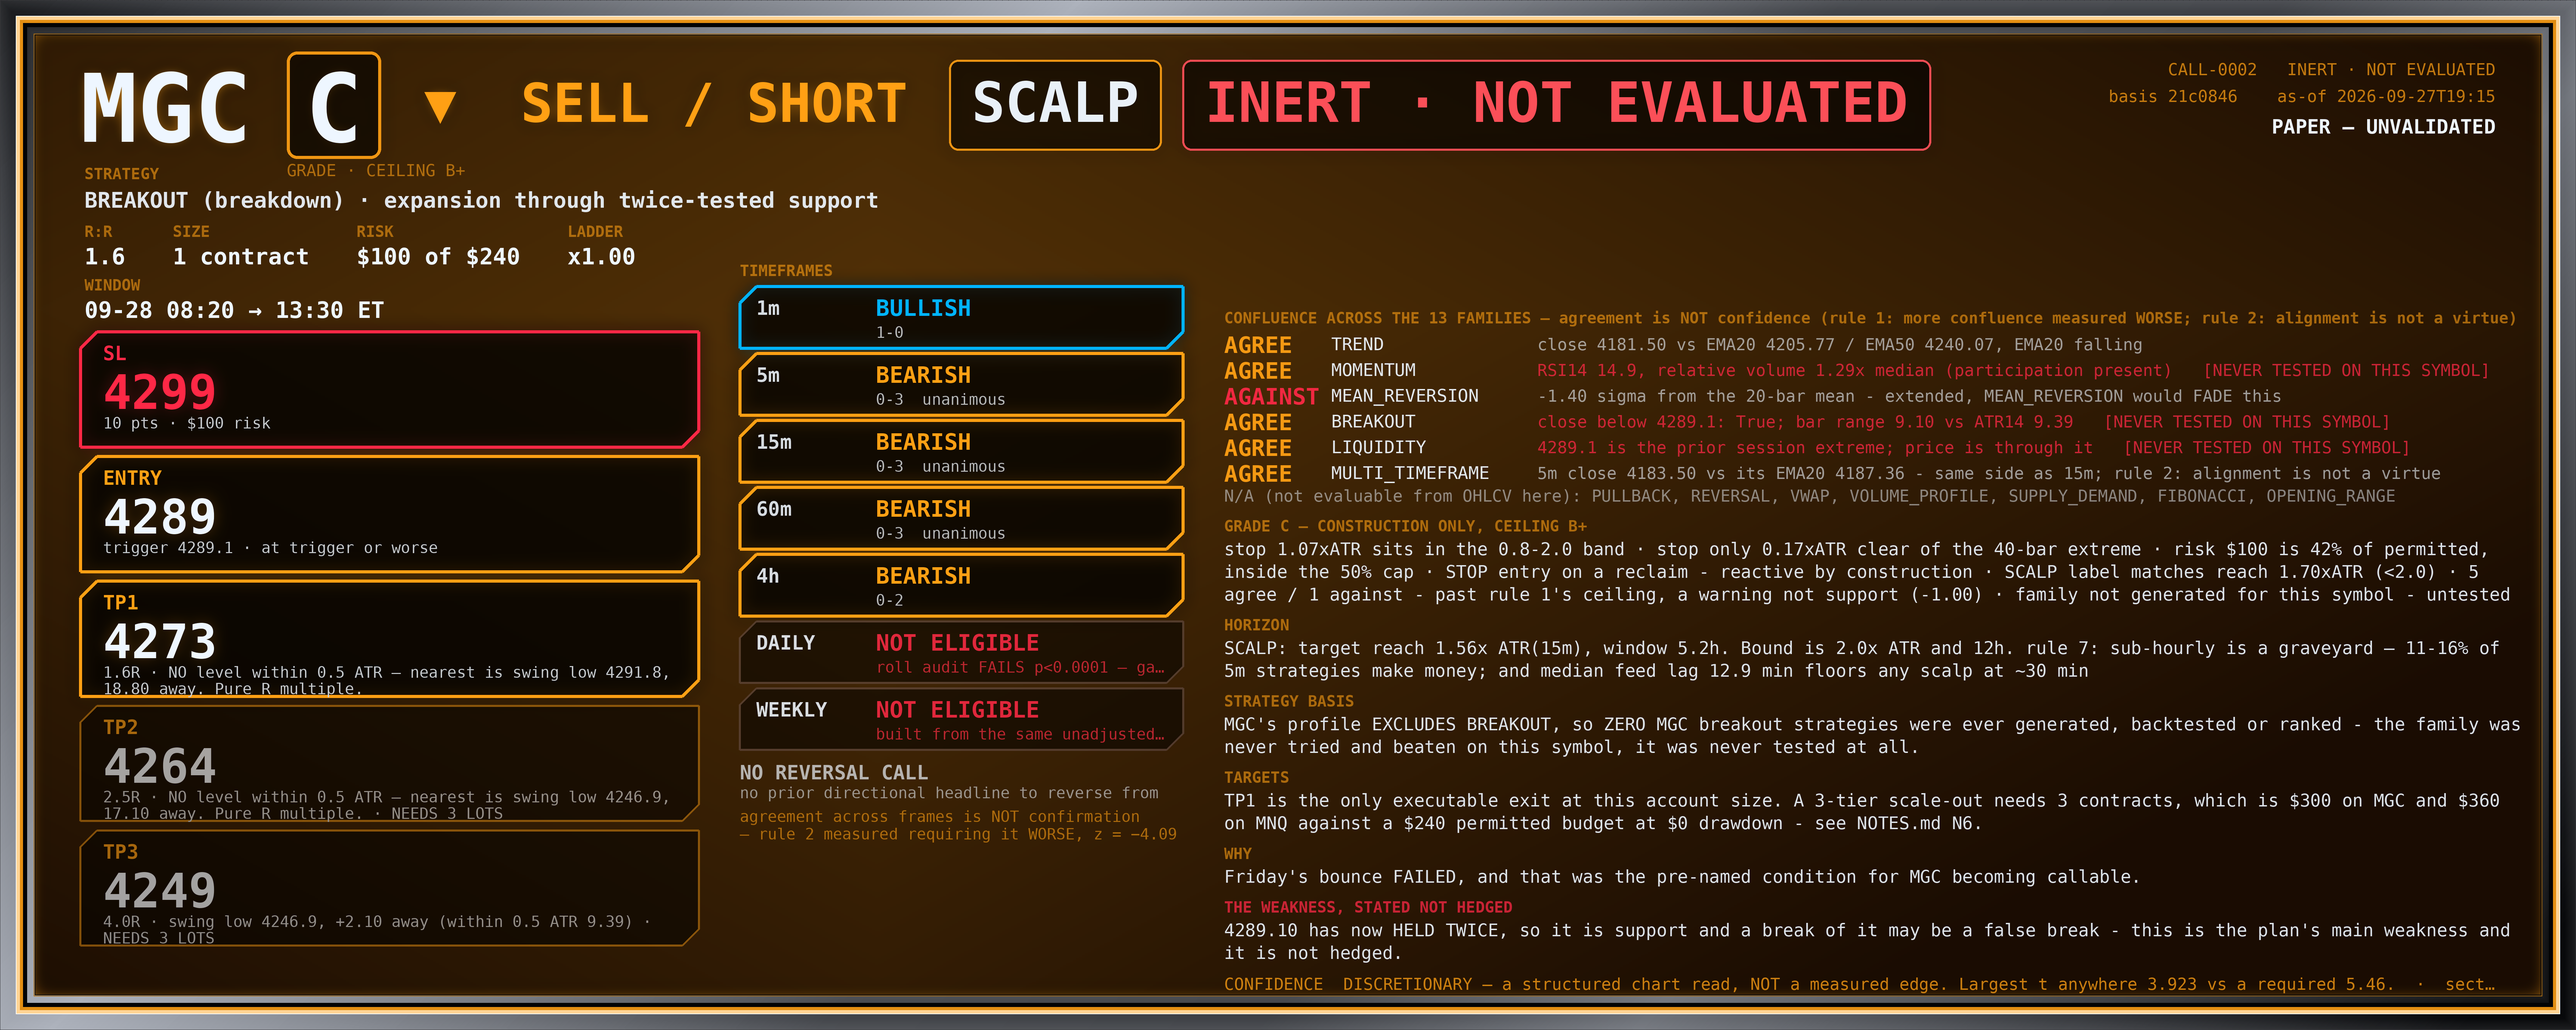
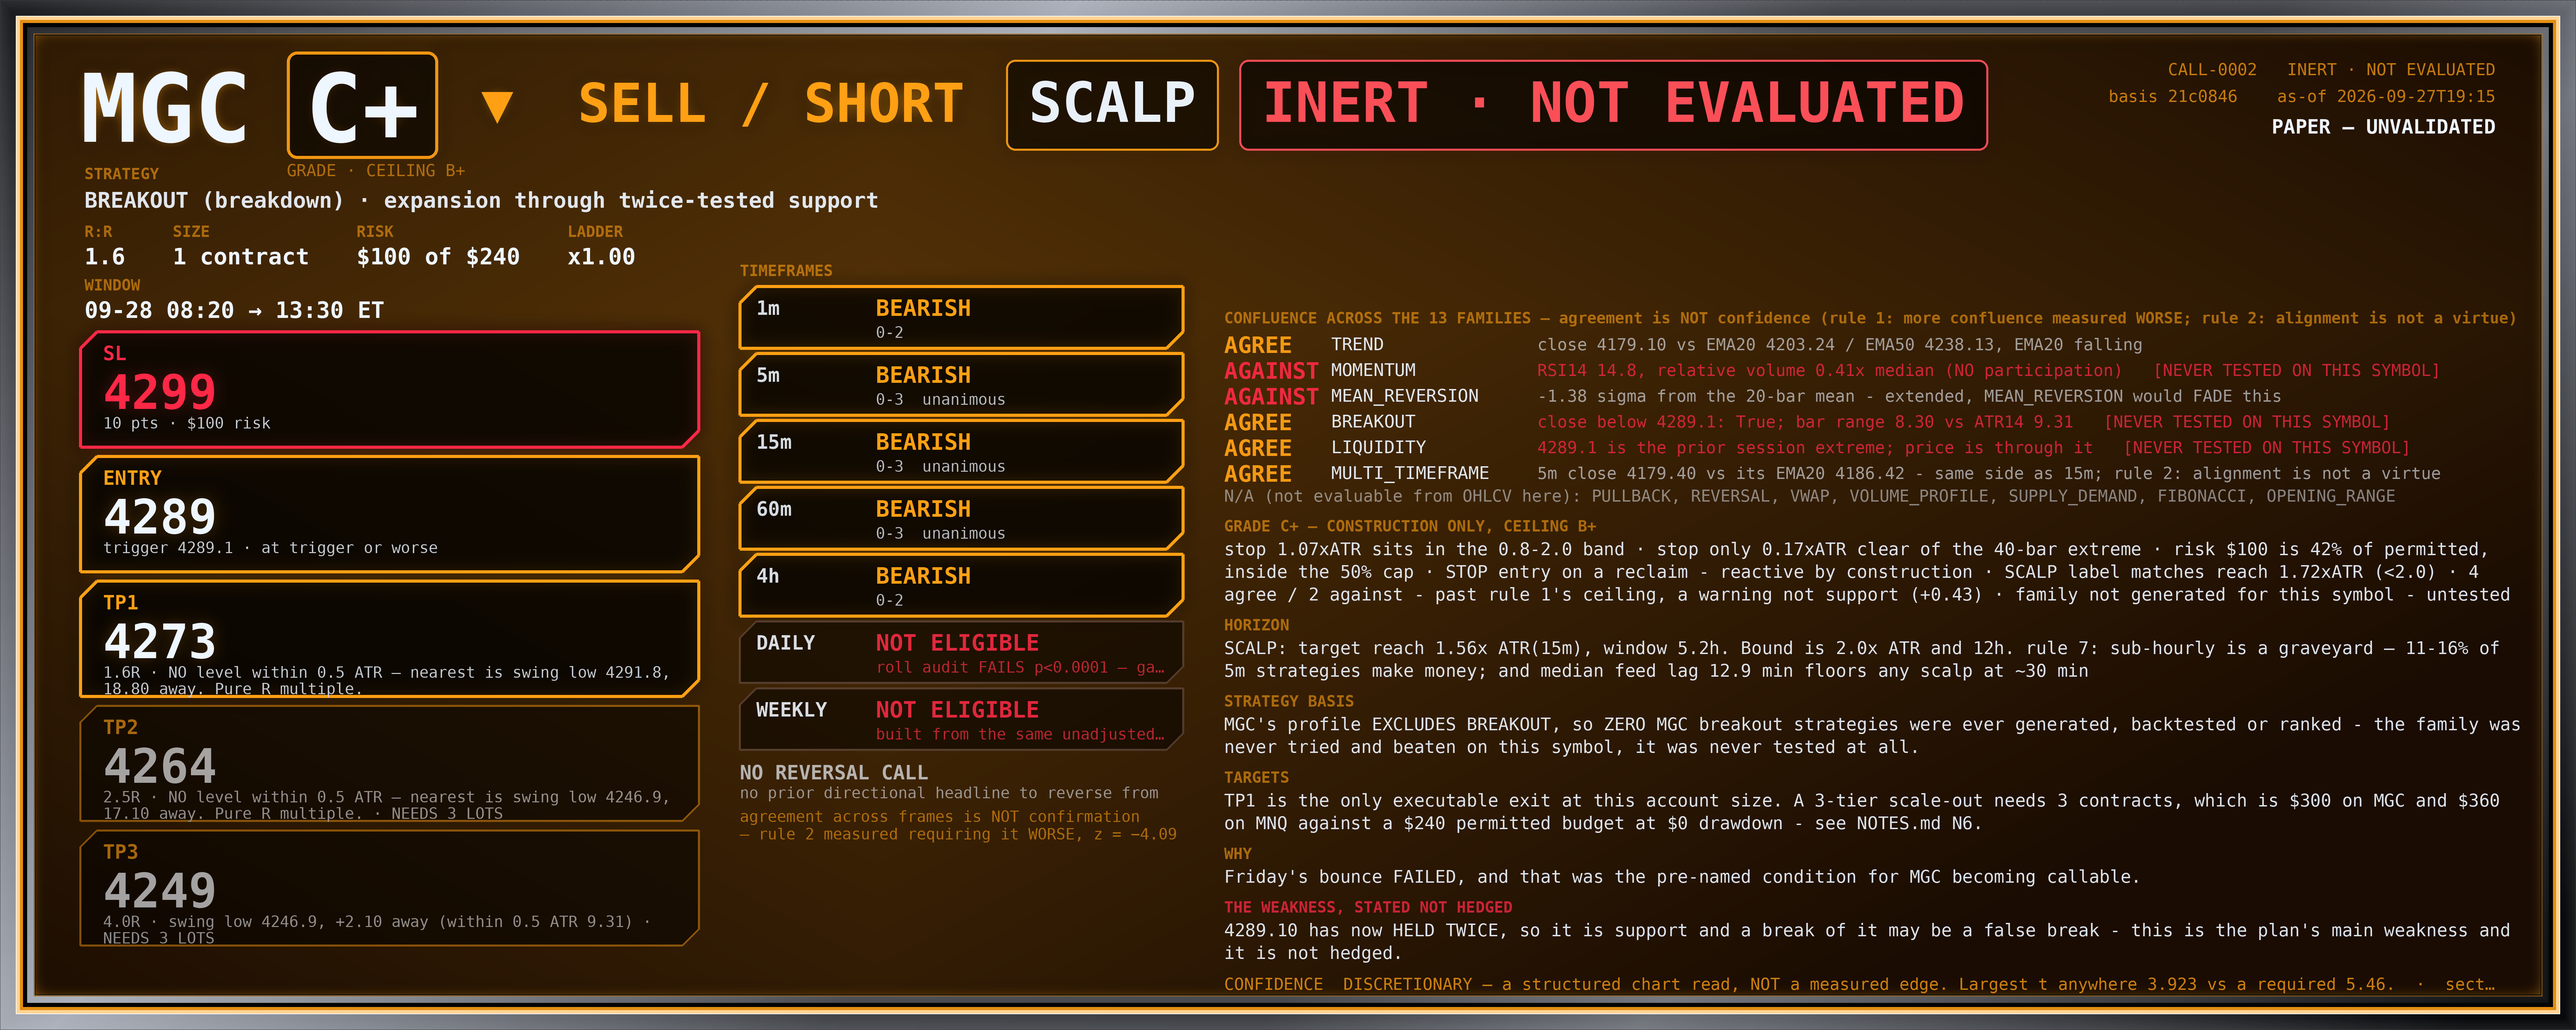
CALL desk: N62/N63/N64 - 60m advanced on schedule; 4h revisions are a window-edge artefact; settled data says the symbols DIVERGED
N62: N60 predicted the 60m frame was not stale and would advance at 05:00. At
05:02 the fetch returned 60m +1 new on both symbols, the bar being 04:00 with
MGC l 4174.30 c 4179.10 - it contains the decline - and the 60m lag fell 117m
to 62m. First prediction tonight that confirmed unchanged rather than needing
retraction, and it settles N57 vs N60 empirically. Incidental: the 60m frame's
publishing delay is ~2 minutes against the 5m frame's ~12, so the desk's
"median feed lag 12.9 min" is a 5m number and must not be applied to others.

N63: the 240m frame reported 1 revised, and the revised bar is 2026-07-30 - two
months old. Not a vendor rewriting history: FRAMES requests 240m over 60 days
and 60 days before today IS 2026-07-30, so it is the bar on the oldest edge of
the lookback window, truncated by however many 60m bars fall inside the sliding
span. Every 240m delta this session hits one of the two edges and the
oldest-edge bar walks forward as the window slides; middle bars never revise.
Rule: the oldest bar of any rolling-lookback request is truncated and must never
be used, on any frame. N60's "never revise" phrasing was too strong and should
have been scoped to those eight fetches; its substantive lag claim is untouched
and N62 confirmed it independently.

N64: the 04:30 15m bar settled at 04:58, so the first settled-to-settled
comparison of the night is available. MGC 4176.90 -> 4181.50 = +4.60. MNQ
[…]

diff --git a/workspace/paper/CALL/NOTES.md b/workspace/paper/CALL/NOTES.md
@@ -3074,3 +3074,84 @@ Fast frames: MGC 1m BULL 1-0 (from BULL 2-0, from CONFLICTED, from BEAR 0-3 unan
 to BEAR 0-3 unanimous. Both 5m unanimous bearish. No new call: nothing in the decline's structure has
 changed, MNQ remains near its low, and the MGC retracement stays blocked by N52 until CALL-0004
 resolves on the 06:00 ET bar, now ~63 minutes out.
+
+## N62 — N60's prediction came true on schedule, which is the first thing tonight that confirmed rather than retracted
+
+N60 said the 60m frame was not stale and would advance at 05:00. At 05:02 the fetch returned
+`MGC 60m (+1 new, 0 revised)` and `MNQ 60m (+1 new, 0 revised)`, the new bar being `04:00`, and the
+60m lag fell **117m -> 62m**. The bar carries MGC `o 4187.50 h 4191.20 l 4174.30 c 4179.10` — it
+contains the decline, exactly as predicted, and the 60m row now reflects the move it could not
+reflect before.
+
+Recording this deliberately. Eight of tonight's findings have been corrections of my own work, two of
+them corrections of corrections. This is the first prediction I made about the machinery that came
+true unchanged, and it is worth the same shelf space as the errors, otherwise the record is a list of
+failures rather than a record of a process. It also settles N57 versus N60 empirically rather than by
+argument: a stale frame does not advance on the exact minute its bar completes.
+
+Incidental measurement that came out of it: the 60m frame's publishing delay is about **2 minutes**
+(the `04:00` bar completed at 05:00 and was in hand at 05:02), against the 5m frame's ~12 minutes.
+The frames do not share a publishing delay, so the single "median feed lag 12.9 min" figure the desk
+has been carrying is a 5m-frame number and should not be applied to the others.
+
+## N63 — the 4h frame's "revisions" are a WINDOW-EDGE artefact, and revisions happen at both ends of a lookback window but never in the middle
+
+At 05:02 the 240m frame reported `+0 new, 1 revised`. N60 had said 240m and 1440m show `new=0 rev=0`
+and characterised them as non-revising; this falsifies that as stated, so I checked what actually
+revised before writing anything. The revised bar is **`2026-07-30T04:00:00-04:00`** — two months old.
+
+A vendor rewriting two-month-old history would be serious. It is not that. `FRAMES` requests 240m over
+**60 days**, and 60 days before 2026-09-28 is **2026-07-30**. The revised bar is the bar sitting on
+the *oldest edge of the lookback window*. Every 240m delta this session tells the same story:
+
+| fetch | revised bar | where it sits |
+|---|---|---|
+| 02:03Z, 03:10Z | `07-29T20:00` | oldest edge |
+| 04:04Z, 05:04Z, 06:03Z, 07:02Z | `07-30T00:00` | oldest edge, drifted forward |
+| 08:01Z, 09:02Z | `07-30T04:00` | oldest edge, drifted forward again |
+| 06:14Z | `09-27T20:00` | newest edge |
+| 08:06Z, 08:07Z, 08:10Z | `09-28T00:00` | newest edge |
+
+**Revisions occur only at the two edges, never in the middle**, and the oldest-edge bar walks forward
+as the window slides. The mechanism is that the 4h bar is resampled from 60m (fetch.py's own comment
+says the vendor has no native 4h bar), so the bar at the window boundary is built from however many
+60m bars happen to fall inside the requested span — and that count changes every time the span slides
+forward. It is a truncated bar, not a corrected one.
+
+**The rule: the oldest bar of any rolling-lookback request is truncated and must never be used.** Not
+for an ATR, not for a range, not for a swing point. This applies to every frame, not just 240m; 240m
+is simply where it was visible because a 4h bar is large enough for the truncation to matter and the
+60-day window puts the edge in plain sight.
+
+It also means N60's "never revise" phrasing was too strong and its table should have read `new=0
+rev=0` **on those eight consecutive fetches**, which is what I observed, rather than as a property of
+the frame. The substantive claim in N60 — that the lag figures are arithmetic and no frame is stale —
+is untouched by this and was independently confirmed by N62.
+
+## N64 — the first legitimate settled-to-settled comparison of the night, and it says the two symbols DIVERGED
+
+The `04:30` 15m bar crossed the settle threshold at 04:58, so at 05:02 there are two settled bars to
+compare and the N49 rule can finally be applied as intended rather than as a prohibition:
+
+| symbol | settled `04:15` | settled `04:30` | change |
+|---|---|---|---|
+| MGC | 4176.90 | 4181.50 | **+4.60** |
+| MNQ | 30622.75 | 30589.25 | **−33.50** |
+
+MGC rose and MNQ fell. Every check for the last half hour has described them as falling together,
+because the forming bars moved together; on settled data they did not. MGC's settled close is up 4.60
+from the previous settled close while MNQ's is down 33.50, and MNQ's `04:30` low of 30571.00 is the
+40-bar low while MGC has bounced 7.20 off its 4174.30 low.
+
+This is the first genuinely new market fact the settled-bar discipline has produced rather than
+suppressed, and it points the opposite way to the narrative the fast frames supported. It does not
+change the decision — MGC's 15m location is 3.8% of [4174.30, 4300.60] and MNQ's 6.0% of
+[30571.00, 30900.50], both still at the extreme, and the MGC retracement remains blocked by N52 until
+CALL-0004 resolves on the 06:00 ET bar, now ~58 minutes out. But "they are diverging" is a materially
+different state from "both are falling," and I have been reporting the wrong one.
+
+MGC structure has also made a lower low on the settled series: swing lows 4182.70 -> 4174.30. MNQ's
+swing lows read 30571.00 -> 30571.00, i.e. a **double bottom on the settled 15m series**, the first
+non-lower low either symbol has printed tonight. Not a reversal call — regime.py's reversal test
+returns false on both symbols and per the standing rule a REVERSAL is only called when every condition
+is true. Recorded as the thing to watch, and it is watched at the level, not chased.
